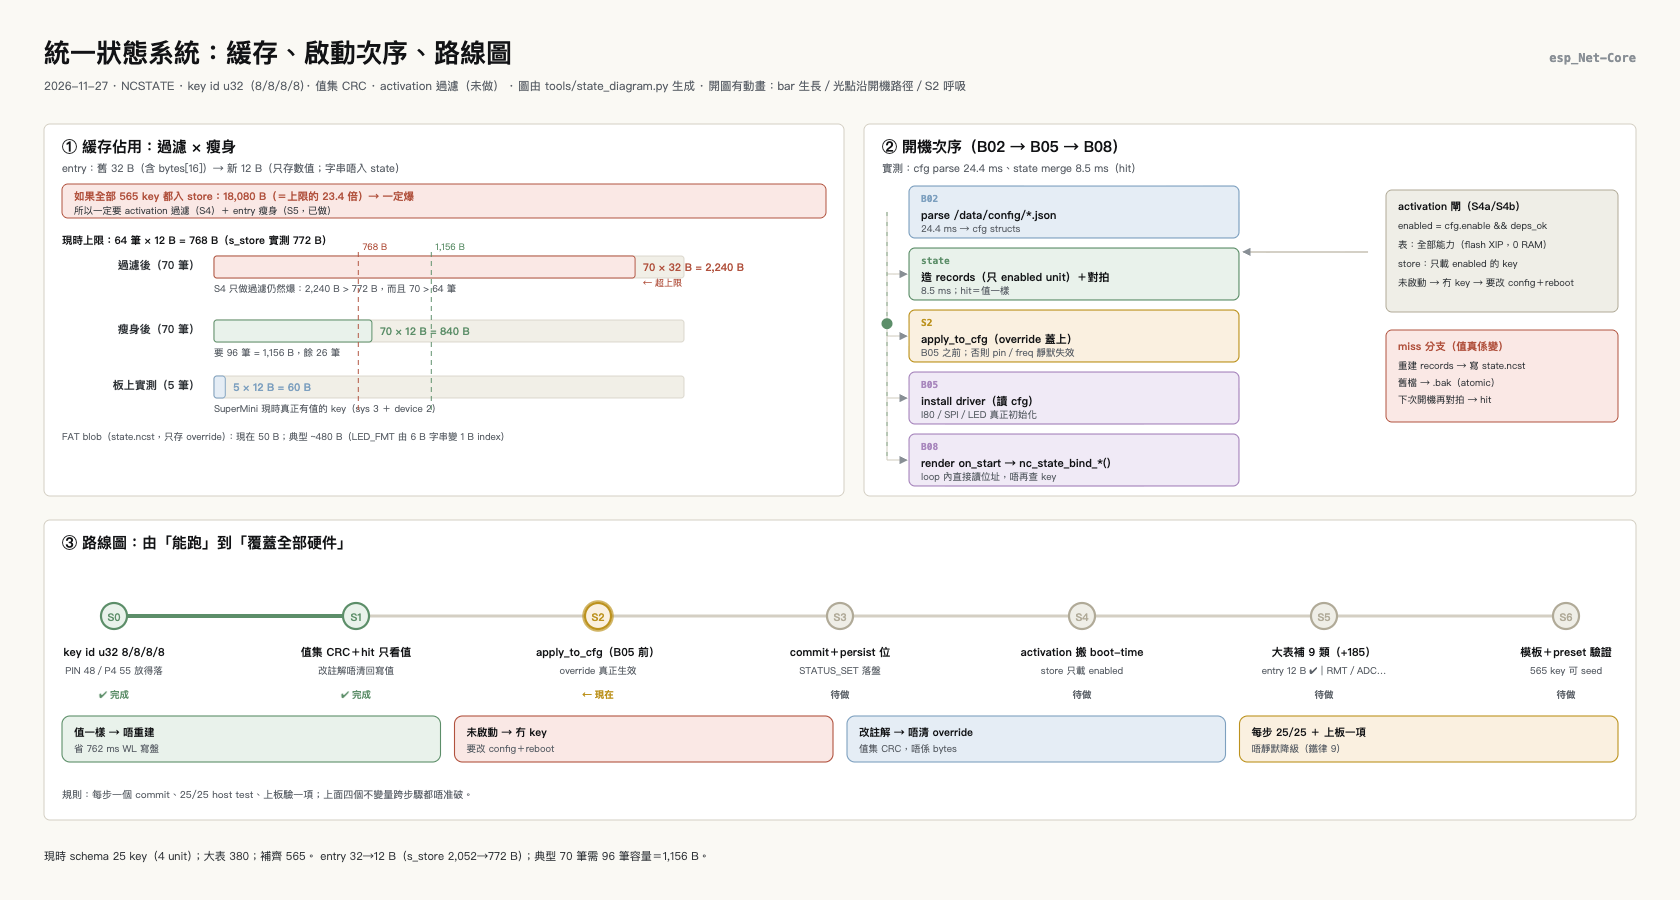
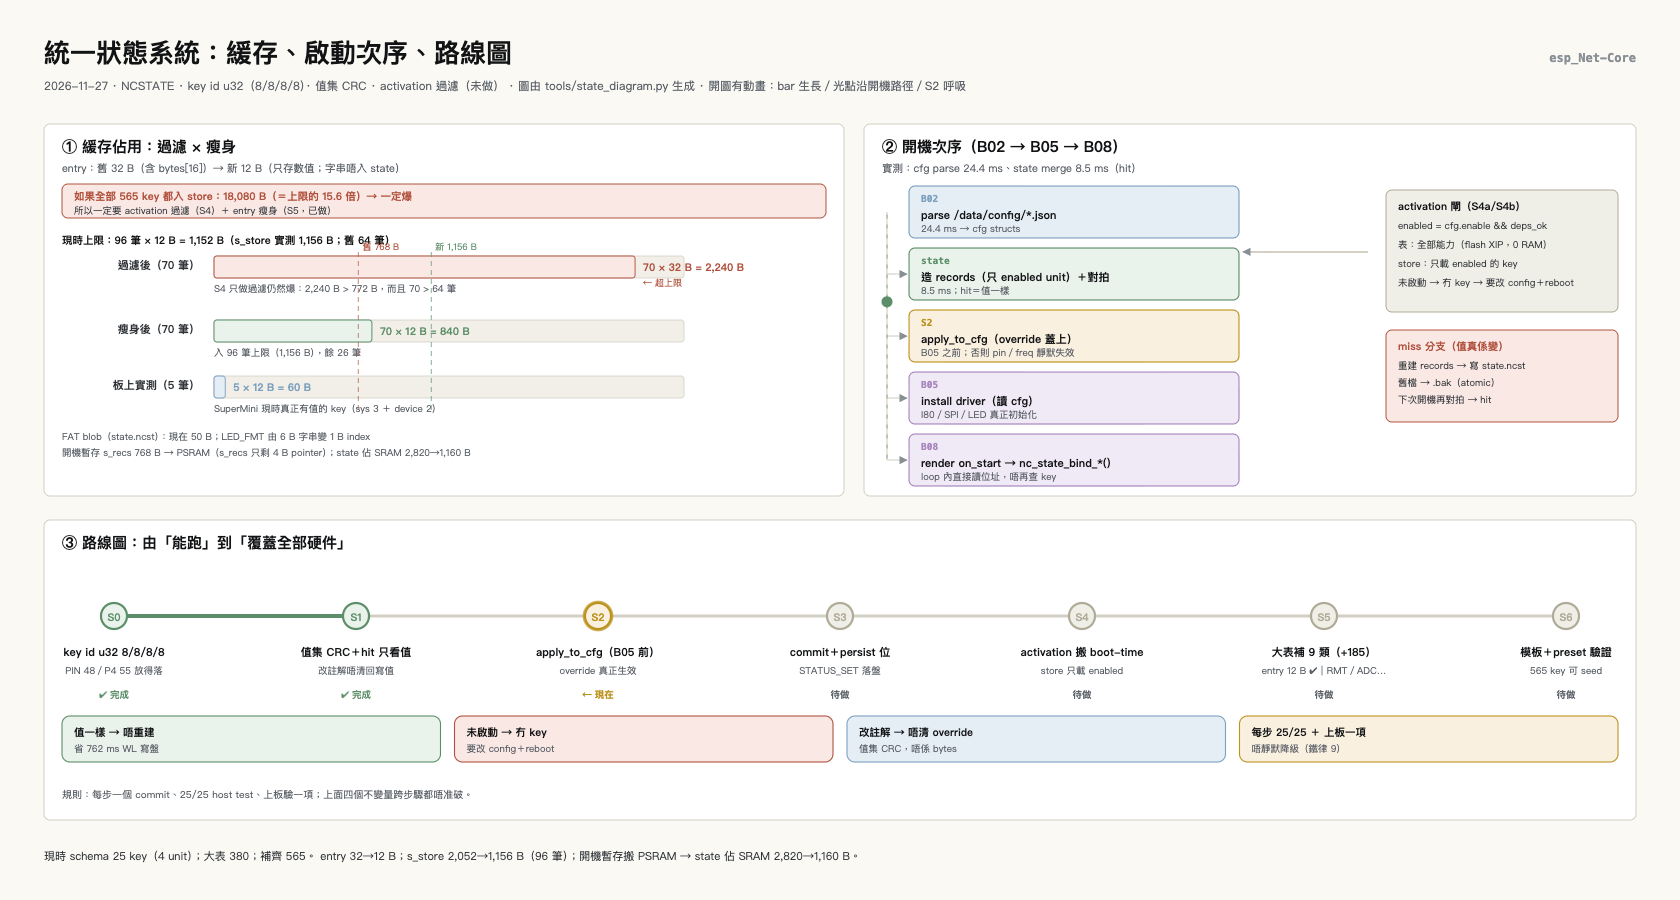
perf(state): 只用一次的 768 B 搬 PSRAM、store 64→96 筆；state 佔 SRAM 2,820→1,160 B
為什麼：用家要求「字典表可以放 PSRAM，不要浪費 SRAM，容量鬆動一點」。
先查 ELF：字典表 nc_state_schema_keys 900 B 已經在 .flash.rodata（XIP，0 RAM），
搬 PSRAM 反而要 copy。真正浪費的是 s_recs（768 B，只在 B02 sync 用一次）。

做法：
- s_recs：heap_caps_malloc(MALLOC_CAP_SPIRAM)，開機一次；無 PSRAM 的板用
  #if CONFIG_SPIRAM compile-time 回 internal static；PSRAM 失敗 → 明示 log＋跳過
  state sync（cfg/JSON 仍然權威）。
- NC_STATE_STORE_MAX 64 → 96：Matrix 典型 70 筆，64 會截斷。

量測（nm ＋ 上板）：
- s_store 0x304(772) → 0x484(1,156 B)；s_recs 0x300(768) → 0x4(4 B pointer)
- state 佔 SRAM 2,820 → 1,160 B（−1,660 B／−59%）；字典表 900 B flash 不變
- image +144 B（747,440 B）
- 上板 h_ps 2,067,388 → 2,066,628（−760 B ≈ 768 B 進 PSRAM）；
  state hit=1、n=5、bad=0、t=24.2/8.7 ms 冇回歸
- host 25/25

圖（state-flow.svg／PNG）同步：① 上限改 96 筆＝1,156 B、加「s_recs 768 B → PSRAM、
state SRAM 2,820→1,160 B」。

diff --git a/firmware/components/sys/state/nc_state_boot.c b/firmware/components/sys/state/nc_state_boot.c
@@ -14,6 +14,9 @@
 
 #include <string.h>
 
+#include "sdkconfig.h"
+
+#include "esp_heap_caps.h"
 #include "esp_log.h"
 #include "nc_cfg.h"
 #include "nc_state_blob.h"
@@ -24,85 +27,106 @@
 
 static const char *TAG = "state";
 
-static nc_state_rec_t s_recs[32];
+// 開機 sync 的 records 暫存（32 筆 × 24 B = 768 B）。
+// **只在 B02 用一次**，之後完全唔會再讀 → 冇理由長佔 SRAM：
+//   有 PSRAM 的板 → 開機一次性由 PSRAM 拿（失敗就明示跳過 state sync，cfg 仍然權威）
+//   冇 PSRAM 的板（C3 等）→ compile-time 用 internal 靜態陣列
+#define NC_STATE_RECS_MAX 32
+#if CONFIG_SPIRAM
+static nc_state_rec_t *s_recs;          // 指向 PSRAM（4 B pointer）
+static nc_state_rec_t *recs_buf(void)
+{
+    if (s_recs == NULL) {
+        s_recs = (nc_state_rec_t *)heap_caps_malloc(
+            sizeof(nc_state_rec_t) * NC_STATE_RECS_MAX, MALLOC_CAP_SPIRAM);
+        if (s_recs == NULL) {
+            ESP_LOGW(TAG, "PSRAM 唔夠 → 跳過 state sync（cfg／JSON 仍然權威，唔會靜默）");
+        }
+    }
+    return s_recs;
+}
+#else
+static nc_state_rec_t s_recs[NC_STATE_RECS_MAX];
+static nc_state_rec_t *recs_buf(void) { return s_recs; }
+#endif
 static nc_state_store_t s_store;          // 常駐 RAM：blob 載入後的值（~576 B internal）
 static nc_state_boot_result_t s_result;
 static bool s_result_valid;
 
-static size_t put_u(size_t n, uint32_t key, uint32_t v)
+static size_t put_u(nc_state_rec_t *recs, size_t n, uint32_t key, uint32_t v)
 {
-    s_recs[n] = (nc_state_rec_t){ .key = key, .type = NC_STATE_T_UINT, .u = v };
+    recs[n] = (nc_state_rec_t){ .key = key, .type = NC_STATE_T_UINT, .u = v };
     return n + 1;
 }
 
-static size_t put_i(size_t n, uint32_t key, int32_t v)
+static size_t put_i(nc_state_rec_t *recs, size_t n, uint32_t key, int32_t v)
 {
-    s_recs[n] = (nc_state_rec_t){ .key = key, .type = NC_STATE_T_SINT, .i = v };
+    recs[n] = (nc_state_rec_t){ .key = key, .type = NC_STATE_T_SINT, .i = v };
     return n + 1;
 }
 
-static size_t put_b(size_t n, uint32_t key, bool v)
+static size_t put_b(nc_state_rec_t *recs, size_t n, uint32_t key, bool v)
 {
-    s_recs[n] = (nc_state_rec_t){ .key = key, .type = NC_STATE_T_BOOL, .u = v ? 1u : 0u };
+    recs[n] = (nc_state_rec_t){ .key = key, .type = NC_STATE_T_BOOL, .u = v ? 1u : 0u };
     return n + 1;
 }
 
 // 由已 parse 的 cfg 造 record（sparse：只寫真的值；default 留給 schema／L0）
-static size_t build_records(void)
+static size_t build_records(nc_state_rec_t *recs)
 {
     size_t n = 0;
 
     const nc_system_cfg_t *sys = nc_cfg_system();
     if (sys != NULL) {
-        n = put_u(n, NC_KEY_SYS_FRAME_MS, sys->frame_interval_ms);
-        n = put_u(n, NC_KEY_SYS_NUM_PIXELS, sys->num_pixels);
-        n = put_u(n, NC_KEY_SYS_LOG_DEBUG, sys->log_debug_mode);
+        n = put_u(recs, n, NC_KEY_SYS_FRAME_MS, sys->frame_interval_ms);
+        n = put_u(recs, n, NC_KEY_SYS_NUM_PIXELS, sys->num_pixels);
+        n = put_u(recs, n, NC_KEY_SYS_LOG_DEBUG, sys->log_debug_mode);
     }
 
     const nc_hardware_cfg_t *hw = nc_cfg_hardware();
     if (hw != NULL && hw->n_i80 > 0) {
         const nc_i80_cfg_t *b = &hw->i80[0];
-        n = put_u(n, NC_KEY_I80_COUNT, b->n_used);
-        n = put_i(n, NC_KEY_I80_WR, b->wr);
-        n = put_i(n, NC_KEY_I80_DC, b->dc);
-        n = put_i(n, NC_KEY_I80_CS, b->cs);
-        n = put_u(n, NC_KEY_I80_FREQ, b->freq_hz);
+        n = put_u(recs, n, NC_KEY_I80_COUNT, b->n_used);
+        n = put_i(recs, n, NC_KEY_I80_WR, b->wr);
+        n = put_i(recs, n, NC_KEY_I80_DC, b->dc);
+        n = put_i(recs, n, NC_KEY_I80_CS, b->cs);
+        n = put_u(recs, n, NC_KEY_I80_FREQ, b->freq_hz);
     }
     if (hw != NULL && hw->n_spi > 0) {
         const nc_spi_cfg_t *s = &hw->spi[0];
-        n = put_b(n, NC_KEY_SPI_ENABLE, s->enable);
-        n = put_u(n, NC_KEY_SPI_BAUD, s->baud);
-        n = put_u(n, NC_KEY_SPI_PHASE, s->phase);
-        n = put_u(n, NC_KEY_SPI_POL, s->polarity);
-        n = put_i(n, NC_KEY_SPI_SCK, s->sck);
-        n = put_i(n, NC_KEY_SPI_MOSI, s->mosi);
-        n = put_i(n, NC_KEY_SPI_MISO, s->miso);
+        n = put_b(recs, n, NC_KEY_SPI_ENABLE, s->enable);
+        n = put_u(recs, n, NC_KEY_SPI_BAUD, s->baud);
+        n = put_u(recs, n, NC_KEY_SPI_PHASE, s->phase);
+        n = put_u(recs, n, NC_KEY_SPI_POL, s->polarity);
+        n = put_i(recs, n, NC_KEY_SPI_SCK, s->sck);
+        n = put_i(recs, n, NC_KEY_SPI_MOSI, s->mosi);
+        n = put_i(recs, n, NC_KEY_SPI_MISO, s->miso);
     }
 
     const nc_devices_cfg_t *dv = nc_cfg_devices();
     if (dv != NULL && dv->present) {
         const nc_led_cfg_t *led = &dv->led;
-        n = put_b(n, NC_KEY_LED_ENABLE, led->enable);
-        n = put_u(n, NC_KEY_LED_BACKEND, led->backend);
+        n = put_b(recs, n, NC_KEY_LED_ENABLE, led->enable);
+        n = put_u(recs, n, NC_KEY_LED_BACKEND, led->backend);
         if (dv->led_decl) {
-            n = put_i(n, NC_KEY_LED_BUS, led->bus);
-            n = put_u(n, NC_KEY_LED_LANES, led->lanes);
-            n = put_u(n, NC_KEY_LED_PX, led->px);
+            n = put_i(recs, n, NC_KEY_LED_BUS, led->bus);
+            n = put_u(recs, n, NC_KEY_LED_LANES, led->lanes);
+            n = put_u(recs, n, NC_KEY_LED_PX, led->px);
             if (led->fmt[0] != '\0') {
                 // JSON 寫人讀名（"ws2812"），state 只存 index（enum）：
                 // 名字留喺 schema 字典（flash），唔入 store／blob。
                 const int fid = nc_state_enum_id(nc_state_key(NC_KEY_LED_FMT), led->fmt);
                 if (fid >= 0) {
-                    n = put_u(n, NC_KEY_LED_FMT, (uint32_t)fid);
+                    n = put_u(recs, n, NC_KEY_LED_FMT, (uint32_t)fid);
                 } else {
                     ESP_LOGW(TAG, "LED format '%s' 唔在 schema enum 內 → 跳過呢個 key",
                              led->fmt);
                 }
             }
-            n = put_u(n, NC_KEY_LED_CLK, led->clk_hz);
-            n = put_u(n, NC_KEY_LED_BIT_CELLS, led->bit_cells);
-            n = put_u(n, NC_KEY_LED_T0H, led->t0h);
-            n = put_u(n, NC_KEY_LED_T1H, led->t1h);
+            n = put_u(recs, n, NC_KEY_LED_CLK, led->clk_hz);
+            n = put_u(recs, n, NC_KEY_LED_BIT_CELLS, led->bit_cells);
+            n = put_u(recs, n, NC_KEY_LED_T0H, led->t0h);
+            n = put_u(recs, n, NC_KEY_LED_T1H, led->t1h);
         }
     }
     return n;
@@ -120,15 +144,15 @@ static const char *miss_reason(esp_err_t e)
     }
 }
 
-static bool save_records(const nc_state_meta_t *meta, size_t nrec)
+static bool save_records(const nc_state_meta_t *meta, const nc_state_rec_t *recs, size_t nrec)
 {
-    const esp_err_t se = nc_state_file_save(NC_STATE_PATH, meta, s_recs, nrec);
+    const esp_err_t se = nc_state_file_save(NC_STATE_PATH, meta, recs, nrec);
     if (se != ESP_OK) {
         ESP_LOGE(TAG, "NCSTATE 寫檔失敗（%s）；L1 JSON／L0 預設仍然有效",
                  esp_err_to_name(se));
         return false;
     }
-    (void)nc_state_store_from_recs(&s_store, s_recs, nrec);
+    (void)nc_state_store_from_recs(&s_store, recs, nrec);
     return true;
 }
 
@@ -144,12 +168,19 @@ esp_err_t nc_state_boot_sync(nc_state_boot_result_t *out)
         }
         return ESP_ERR_INVALID_STATE;
     }
-    s_result.n_records = (uint32_t)build_records();
+    nc_state_rec_t *const recs = recs_buf();
+    if (recs == NULL) {
+        if (out != NULL) {
+            *out = s_result;
+        }
+        return ESP_ERR_NO_MEM;      // 明示失敗；state 係快取，cfg／JSON 仍然權威
+    }
+    s_result.n_records = (uint32_t)build_records(recs);
 
     // src_hash = **值**的 CRC（2026-11-27 由「JSON 檔案 bytes 的 hash」改過來）：
     // 改一句 _comment／排版／唔關事嘅檔，唔應該令所有回寫值失效。
     // 真係改咗值 → hash 變 → 重建（呢個正是 cache 失效的條件）。
-    const uint32_t src_hash = nc_state_blob_rec_crc(s_recs, s_result.n_records);
+    const uint32_t src_hash = nc_state_blob_rec_crc(recs, s_result.n_records);
     if (src_hash == 0) {
         ESP_LOGW(TAG, "NCSTATE：由 cfg 造出的 record 值唔合法 → 跳過 state sync");
         if (out != NULL) {
@@ -162,11 +193,11 @@ esp_err_t nc_state_boot_sync(nc_state_boot_result_t *out)
     // schema 係唯一名單：由 cfg 造出的 record 一定要同 schema 對得上（型別／範圍）。
     // 對唔上唔會靜靜收貨：計數＋逐筆 log（最常見 = 加咗 key 但 schema 未加）。
     for (uint32_t i = 0; i < s_result.n_records; i++) {
-        const uint8_t chk = nc_state_schema_check(&s_recs[i]);
+        const uint8_t chk = nc_state_schema_check(&recs[i]);
         if (chk != NC_STATE_CHK_OK) {
             s_result.n_schema_bad++;
             ESP_LOGW(TAG, "state record 0x%08x 同 schema 唔一致（%s）",
-                     (unsigned)s_recs[i].key, nc_state_schema_check_name(chk));
+                     (unsigned)recs[i].key, nc_state_schema_check_name(chk));
         }
     }
 
@@ -194,7 +225,7 @@ esp_err_t nc_state_boot_sync(nc_state_boot_result_t *out)
                                                 &s_store, &li);
         if (le == ESP_OK) {
             cache_ok = true;
-            diff = nc_state_store_cmp(&s_store, s_recs, s_result.n_records, &first);
+            diff = nc_state_store_cmp(&s_store, recs, s_result.n_records, &first);
             s_result.n_skipped = li.n_skipped;
         }
     }
@@ -219,7 +250,7 @@ esp_err_t nc_state_boot_sync(nc_state_boot_result_t *out)
         s_result.n_mismatch = diff;
         s_result.first_diff = first;
         s_result.why = (pe != ESP_OK) ? miss_reason(pe) : "cache 同 cfg 唔一致";
-        if (save_records(&meta, s_result.n_records)) {
+        if (save_records(&meta, recs, s_result.n_records)) {
             s_result.rebuilt = true;
             s_result.bytes = nc_state_file_size(NC_STATE_PATH);
             ESP_LOGW(TAG, "NCSTATE miss（%s）→ 重建：src=0x%08x、%u 筆、%u B（舊檔 → .bak）",

diff --git a/tools/state_diagram.py b/tools/state_diagram.py
@@ -27,8 +27,8 @@ KEY_MATRIX = 380             # hw-matrix.md 的大表
 KEY_TARGET = 565             # 大表＋9 類缺失資源
 STORE_ENTRY = 32             # 舊 entry（u32 key＋bytes[16]＋u/i 分開）
 ENTRY_SLIM = 12              # 2026-11-27 瘦身後（key4＋type1＋pad3＋union4）
-STORE_MAX = 64               # 現時 NC_STATE_STORE_MAX
-STORE_MAX_NEW = 96           # 建議（70 筆 + 餘裕）
+STORE_MAX = 96               # 現時 NC_STATE_STORE_MAX（2026-11-27：64→96）
+STORE_MAX_OLD = 64           # 舊值（圖上做對照）
 # 典型啟動（Matrix 真實 config）：sys 12 + PIN 6×3=18 + I80 22 + LED 10
 #                              + UART 6 + PWM 2 = 70
 TYPICAL_ACTIVE = 70
@@ -147,18 +147,19 @@ def panel_cache(y: int) -> str:
         return "".join(out)
 
     s.append(text(x + 18, y + 120, f"現時上限：{STORE_MAX} 筆 × {ENTRY_SLIM} B = {STORE_MAX*ENTRY_SLIM:,} B"
-                                   f"（s_store 實測 {STORE_MAX*ENTRY_SLIM+4:,} B）", 10.5, INK, 700))
+                                   f"（s_store 實測 {STORE_MAX*ENTRY_SLIM+4:,} B；舊 {STORE_MAX_OLD} 筆）",
+                  10.5, INK, 700))
     s.append(row(y + 132, "過濾後（70 筆）", TYPICAL_ACTIVE, STORE_ENTRY, F_BAD, S_BAD,
                  "S4 只做過濾仍然爆：2,240 B > 772 B，而且 70 > 64 筆", 0.25,
                  limit="← 超上限"))
     s.append(row(y + 196, "瘦身後（70 筆）", TYPICAL_ACTIVE, ENTRY_SLIM, F_OK, S_OK,
-                 f"要 {STORE_MAX_NEW} 筆 = {STORE_MAX_NEW*ENTRY_SLIM+4:,} B，餘 {STORE_MAX_NEW-TYPICAL_ACTIVE} 筆", 0.55))
+                 f"入 {STORE_MAX} 筆上限（{STORE_MAX*ENTRY_SLIM+4:,} B），餘 {STORE_MAX-TYPICAL_ACTIVE} 筆", 0.55))
     s.append(row(y + 252, "板上實測（5 筆）", 5, ENTRY_SLIM, F_INFO, S_INFO,
                  "SuperMini 現時真正有值的 key（sys 3 ＋ device 2）", 0.85))
 
-    # 上限虛線（772 B）＋ 建議上限（96 筆）
-    for val, lab, col in ((STORE_MAX*ENTRY_SLIM, f"{STORE_MAX*ENTRY_SLIM} B", S_BAD),
-                          (STORE_MAX_NEW*ENTRY_SLIM+4, f"{STORE_MAX_NEW*ENTRY_SLIM+4:,} B", S_OK)):
+    # 上限虛線（舊 64 筆＋新 96 筆）
+    for val, lab, col in ((STORE_MAX_OLD*ENTRY_SLIM, f"舊 {STORE_MAX_OLD*ENTRY_SLIM} B", S_BAD),
+                          (STORE_MAX*ENTRY_SLIM+4, f"新 {STORE_MAX*ENTRY_SLIM+4:,} B", S_OK)):
         lx = bx + val * scale
         s.append(f'<line x1="{lx:.1f}" y1="{y+128}" x2="{lx:.1f}" y2="{y+286}" '
                  f'stroke="{col}" stroke-width="1.3" stroke-dasharray="5 4">'
@@ -166,7 +167,8 @@ def panel_cache(y: int) -> str:
         s.append(text(lx + 4, y + 126, lab, 9, col))
 
     # FAT blob
-    s.append(text(x + 18, y + 316, "FAT blob（state.ncst，只存 override）：現在 50 B；典型 ~480 B（LED_FMT 由 6 B 字串變 1 B index）",
+    s.append(text(x + 18, y + 316, "FAT blob（state.ncst）：現在 50 B；LED_FMT 由 6 B 字串變 1 B index", 9.5, MUTED))
+    s.append(text(x + 18, y + 332, "開機暫存 s_recs 768 B → PSRAM（s_recs 只剩 4 B pointer）；state 佔 SRAM 2,820→1,160 B",
                   9.5, MUTED))
     return "".join(s)
 
@@ -312,8 +314,8 @@ def build() -> str:
     # 底部一句
     s.append(text(M, 860,
                   f"現時 schema {KEY_NOW} key（4 unit）；大表 {KEY_MATRIX}；補齊 {KEY_TARGET}。"
-                  f" entry {STORE_ENTRY}→{ENTRY_SLIM} B（s_store 2,052→772 B）；"
-                  f"典型 {TYPICAL_ACTIVE} 筆需 {STORE_MAX_NEW} 筆容量＝{STORE_MAX_NEW*ENTRY_SLIM+4:,} B。",
+                  f" entry {STORE_ENTRY}→{ENTRY_SLIM} B；s_store 2,052→{STORE_MAX*ENTRY_SLIM+4:,} B（{STORE_MAX} 筆）；"
+                  f"開機暫存搬 PSRAM → state 佔 SRAM 2,820→{STORE_MAX*ENTRY_SLIM+4+4:,} B。",
                   11, INK2))
     s.append("</svg>")
     return "\n".join(s)

diff --git a/firmware/components/sys/state/include/nc_state_store.h b/firmware/components/sys/state/include/nc_state_store.h
@@ -19,7 +19,7 @@
 extern "C" {
 #endif
 
-#define NC_STATE_STORE_MAX        64
+#define NC_STATE_STORE_MAX        96   // 2026-11-27：64→96（Matrix 典型 70 筆；64 會截斷）
 
 // 12 B／筆（2026-11-27）：state 只存**數值**。
 //   - key 4 + type 1 + pad 3 + union 4

diff --git a/AGENTS.md b/AGENTS.md
@@ -1062,6 +1062,7 @@ commit message 說明。
 | 2026-11-27 | **板上 firmware 推齊 6.1.1＋OTA 速度查清**：重建 `fw=787baa5`（+0 B）→ OTA → `status sys fw=787baa5／app=94d81499／rst=3`，四條 pixel 任務 `level=4`。查清 macOS 側 ~6.4 KB/s ＝ **64 B／10 ms**（payload 線性；`--window 4` 冇用 → 唔係往返延遲），係 USB-Serial-JTAG VCP 的主機側排程，唔關 hub／線材／firmware；Windows 同板同線 168–173 KB/s。§0.5／§8.1 三處速度描述改「分主機」，status §7.290 | lead（AI） |
 | 2026-11-27 | **state 地基三改＋硬件覆蓋率**：key id u16→u32（8/8/8/8，PIN 48／P4 55 放得落）；`src_hash` 由 JSON bytes 改成**值集** CRC（改註解唔再清回寫值）；hit 只看值（hash 降級診斷）；新增 `nc_state_bind_u32/i32()`（熱路徑直接位址）。上板：舊 blob `mism=2` 自動重建、`bytes 48→50`、兩次開機 `hit=1`。新增 [`hw-coverage.md`](docs/03_notes/hw-coverage.md)：三顆晶片真實資源 vs 380-key 大表（4 個 unit 上限寫錯、S3 ETH rmii 無效、缺 9 類資源 +185 key）。status §7.291 | lead（AI） |
 | 2026-11-27 | **狀態系統三合一圖（帶動畫）**：`tools/state_diagram.py` → [`state-flow.svg`](docs/00_pm/state-flow.svg)（緩存 18 KB→1.7 KB 前後對比／開機次序 B02→state→apply_to_cfg→B05→B08／路線圖 S0–S6＋四個不變量）；PNG 截圖 [`state-flow-2026-11-27.png`](docs/assets/state-flow-2026-11-27.png)。status §7.292 | lead（AI） |
+| 2026-11-27 | **省 SRAM：只用一次的 768 B 搬 PSRAM＋store 64→96 筆**：`s_recs` 改 `heap_caps_malloc(MALLOC_CAP_SPIRAM)`（無 PSRAM 板 compile-time 回 internal；失敗明示跳過）；`NC_STATE_STORE_MAX` 64→96（Matrix 典型 70 筆）。`nm`：`s_store` 772→1,156 B、`s_recs` 768→4 B → **state 佔 SRAM 2,820→1,160 B（−59%）**；上板 `h_ps` −760 B、`hit=1`／`bad=0`。字典表 900 B 仍在 flash（0 RAM，唔使搬）。status §7.294 | lead（AI） |
 | 2026-11-27 | **state 只存數值（entry 32→12 B）**：`LED_FMT` 由 `str` 改 `enum`（名字留字典）；`nc_state_ent_t` 去掉 `bytes[16]`、`u/i` 改 union → 12 B；BYTES 明示拒絕；新增 `nc_state_enum_id()`、`get_str/set_str` 退場。`nm` 量到 `s_store` **2,052→772 B**（−1,280 B RAM）、image +32 B；host 25/25、上板 `hit=1`／`bad=0`。Matrix 典型 70 筆 → 840 B，S4 要把上限提到 96 筆（1,156 B）。status §7.293 | lead（AI） |
 
 ---

diff --git a/docs/00_pm/status.md b/docs/00_pm/status.md
@@ -10220,3 +10220,45 @@ commit 路徑（STATUS_SET 的 persist 位＋reboot 前 flush）；大表補齊 
 
 **未做**：store 64→96（S4）；如果真的需要用戶自訂字串（SSID／裝置名），另設小字串池，
 唔好再回到「每筆預留 16 B」。
+
+---
+
+### 7.294 2026-11-27（把「只用一次的 768 B」搬去 PSRAM；store 上限 64→96；state 佔 SRAM 2,820→1,160 B）
+
+**為什麼**：用家要求「字典表可以放 PSRAM，不要浪費寶貴的 SRAM，容量亦要鬆動一點」。
+
+**先講事實（ELF 量到）**：
+
+| 東西 | 大小 | 位置 | 佔 SRAM |
+|---|---:|---|---:|
+| 字典表 `nc_state_schema_keys`＋字串 | 900 B（565 key 約 12 KB） | `.flash.rodata`（0x3c0a31e8） | **0 B**（flash XIP，唔使搬） |
+| 值 store `s_store` | 772 B → **1,156 B** | `.dram0.bss` | 1,156 B（熱路徑） |
+| 開機暫存 `s_recs`（32 筆 record） | **768 B → 4 B** | `.dram0.bss` → **PSRAM** | 4 B（pointer） |
+
+真正浪費的不是表，是 `s_recs`：只在 B02 sync 用一次，之後永久閒置。
+
+**做法**：
+
+- `nc_state_boot.c`：`s_recs` 改成 `heap_caps_malloc(MALLOC_CAP_SPIRAM)`（開機一次）；
+  冇 PSRAM 的板（C3）用 `#if CONFIG_SPIRAM` compile-time 回 internal 靜態陣列；
+  PSRAM 分配失敗 → **明示 log＋跳過 state sync**（cfg／JSON 仍然權威，唔會靜默）。
+- `NC_STATE_STORE_MAX` **64 → 96**：Matrix 典型 70 筆，64 會截斷。
+
+**量測（`nm`＋上板）**：
+
+| 項目 | 之前 | 之後 |
+|---|---:|---:|
+| `s_store` | `0x304`＝772 B | **`0x484`＝1,156 B**（96 筆） |
+| `s_recs` | `0x300`＝768 B | **`0x4`＝4 B**（768 B 在 PSRAM） |
+| **state 佔 SRAM 合計** | **2,820 B** | **1,160 B（−1,660 B，−59%）** |
+| 字典表 | 900 B flash | 900 B flash（不變） |
+| image | 747,296 B | 747,440 B（+144 B） |
+| 上板 `h_ps` | 2,067,388 | **2,066,628（−760 B ≈ 768 B PSRAM 被用）** |
+| 上板 state | hit=1、n=5、bytes=50 | 一樣（hit=1、n=5、bad=0、t=24.2/8.7 ms） |
+
+**結論**：唔需要把字典表搬去 PSRAM（它已經 0 RAM）；要搬的是「只用一次的暫存」。
+SRAM 由 2,820 → 1,160 B，同時容量由 64 → 96 筆（更寬鬆）。
+
+**未做**：如果將來有「runtime 可改的表」（例如動態 device 清單），才用
+`EXT_RAM_BSS_ATTR`（要開 `CONFIG_SPIRAM_ALLOW_BSS_SEG_EXTERNAL_MEMORY`）或 PSRAM heap；
+現時字典是 const，放 flash 最省。

diff --git a/docs/03_notes/state-system.md b/docs/03_notes/state-system.md
@@ -78,7 +78,7 @@ Record（自描述，逐筆）：
 | **codec** | `sys/state/nc_state_blob.c/h` | 統一格式 encode／decode；CRC／magic／ver／截斷檢查；未知 type 跳過；`nc_state_blob_rec_crc()`＝值集 CRC（cache 失效判斷） |
 | **檔案層** | `sys/state/nc_state_file.c/h` | FAT 讀寫；atomic（`.tmp`→舊檔 `.bak`→rename）；hash helpers |
 | **開機同步** | `sys/state/nc_state_boot.c/h` | 由 cfg 造 records → 對拍 → hit／重建；結果俾 status |
-| **RAM store** | `sys/state/nc_state_store.c/h` | 固定陣列（64 筆 × **12 B**）＋對拍 cmp；`s_store` 實測 772 B、`s_recs` 768 B（開機暫存） |
+| **RAM store** | `sys/state/nc_state_store.c/h` | 固定陣列（**96 筆 × 12 B**）＋對拍 cmp；`s_store` 實測 1,156 B；開機暫存 `s_recs` 768 B 已搬 PSRAM（只剩 4 B pointer） |
 | **讀寫 API** | `sys/state/nc_state_api.c/h` | `get_u32/i32/bool`＋`set_*`（set 只改 RAM＋dirty）；`bind_u32/i32()` 回傳 stable 位址給熱路徑。**只存數值**——字串不入 state（名字在 schema 字典） |
 | **schema registry** | `sys/state/nc_state_schema.c/h`＋`nc_state_schema_data.[ch]` | 查表（id↔name↔unit）、驗型別／範圍／enum、boot drift 檢查 |
 | **key schema** | `schema/state-keys.json`＋`tools/gen_state_keys.py` | **唯一 source of truth**：id／unit／型別／範圍／enum → 生成三份 C 檔＋同步檢查 |
